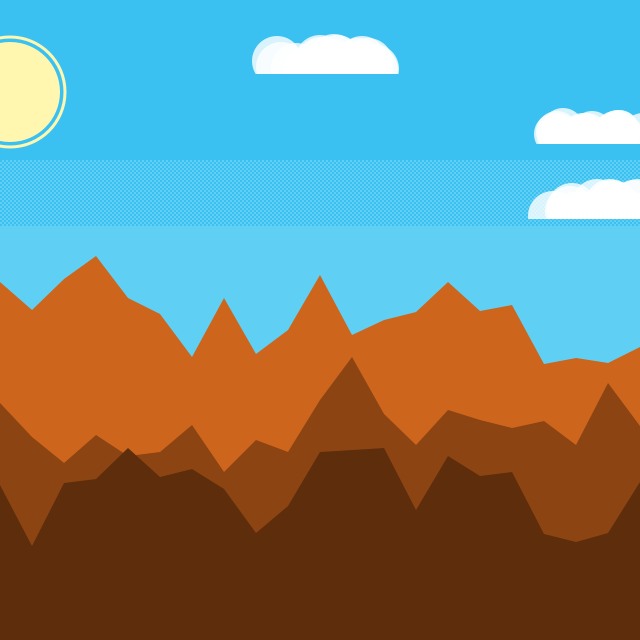
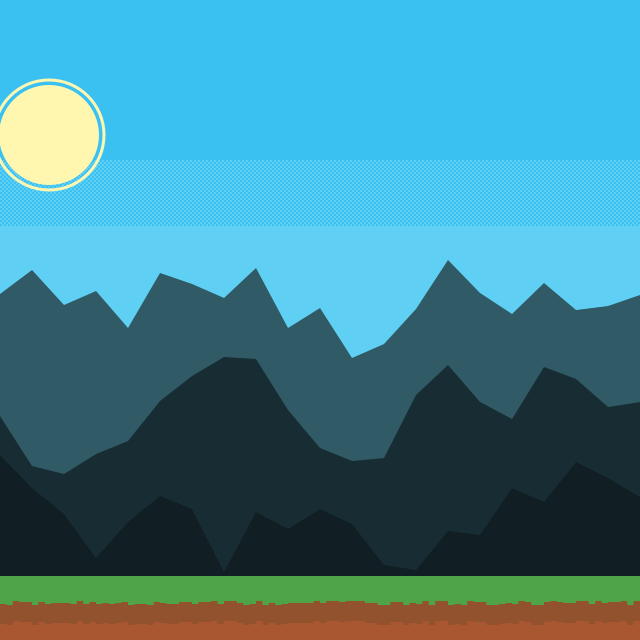
mas cosas

diff --git a/node/generate.js b/node/generate.js
@@ -41,6 +41,25 @@ const saveFile = () => {
     out.on('finish', () => console.log('PNG file created'))
 }
 
+const drawGround = (grass, dirt, dirt2) => {
+    var ypos = parseInt(N*0.9)
+    var xpos = 0;
+    var width = N/100;
+    for(var rect = 0; rect <= 100; rect++) {
+        ctx.fillStyle = grass;
+        var height = Math.floor(Math.random() * (30 - 25) + 25)
+        ctx.fillRect(xpos, ypos, width +1, height)
+        ctx.fillStyle = dirt;
+        ctx.fillRect(xpos, ypos + height, width +1, 20)
+        ctx.fillStyle = dirt2;
+        ctx.fillRect(xpos, ypos + height + 20, width +1, N - ypos - height - 20)
+        
+
+        xpos += width
+    }
+
+}
+
 const drawMountain = (array, color) =>  {
 
     ctx.fillStyle = color
@@ -152,8 +171,9 @@ const draw = (biome, time) => {
     ctx.fillStyle = '#fff'
     ctx.fillRect(0, 0, width, height)
     drawSky(sky_colors[time])
+    drawSun() 
+
     if(time=="day"){ 
-        drawSun() 
         ctx.globalAlpha = 0.8
         for (var i = 0; i < Math.floor(Math.random() * (7)); i++) {
             drawCloud(20)
@@ -171,6 +191,8 @@ const draw = (biome, time) => {
         drawMountain(array, color)
         bound += 0.15
     }
+
+    drawGround('#4FA447', '#92522E', '#A85731')
     
 
     
